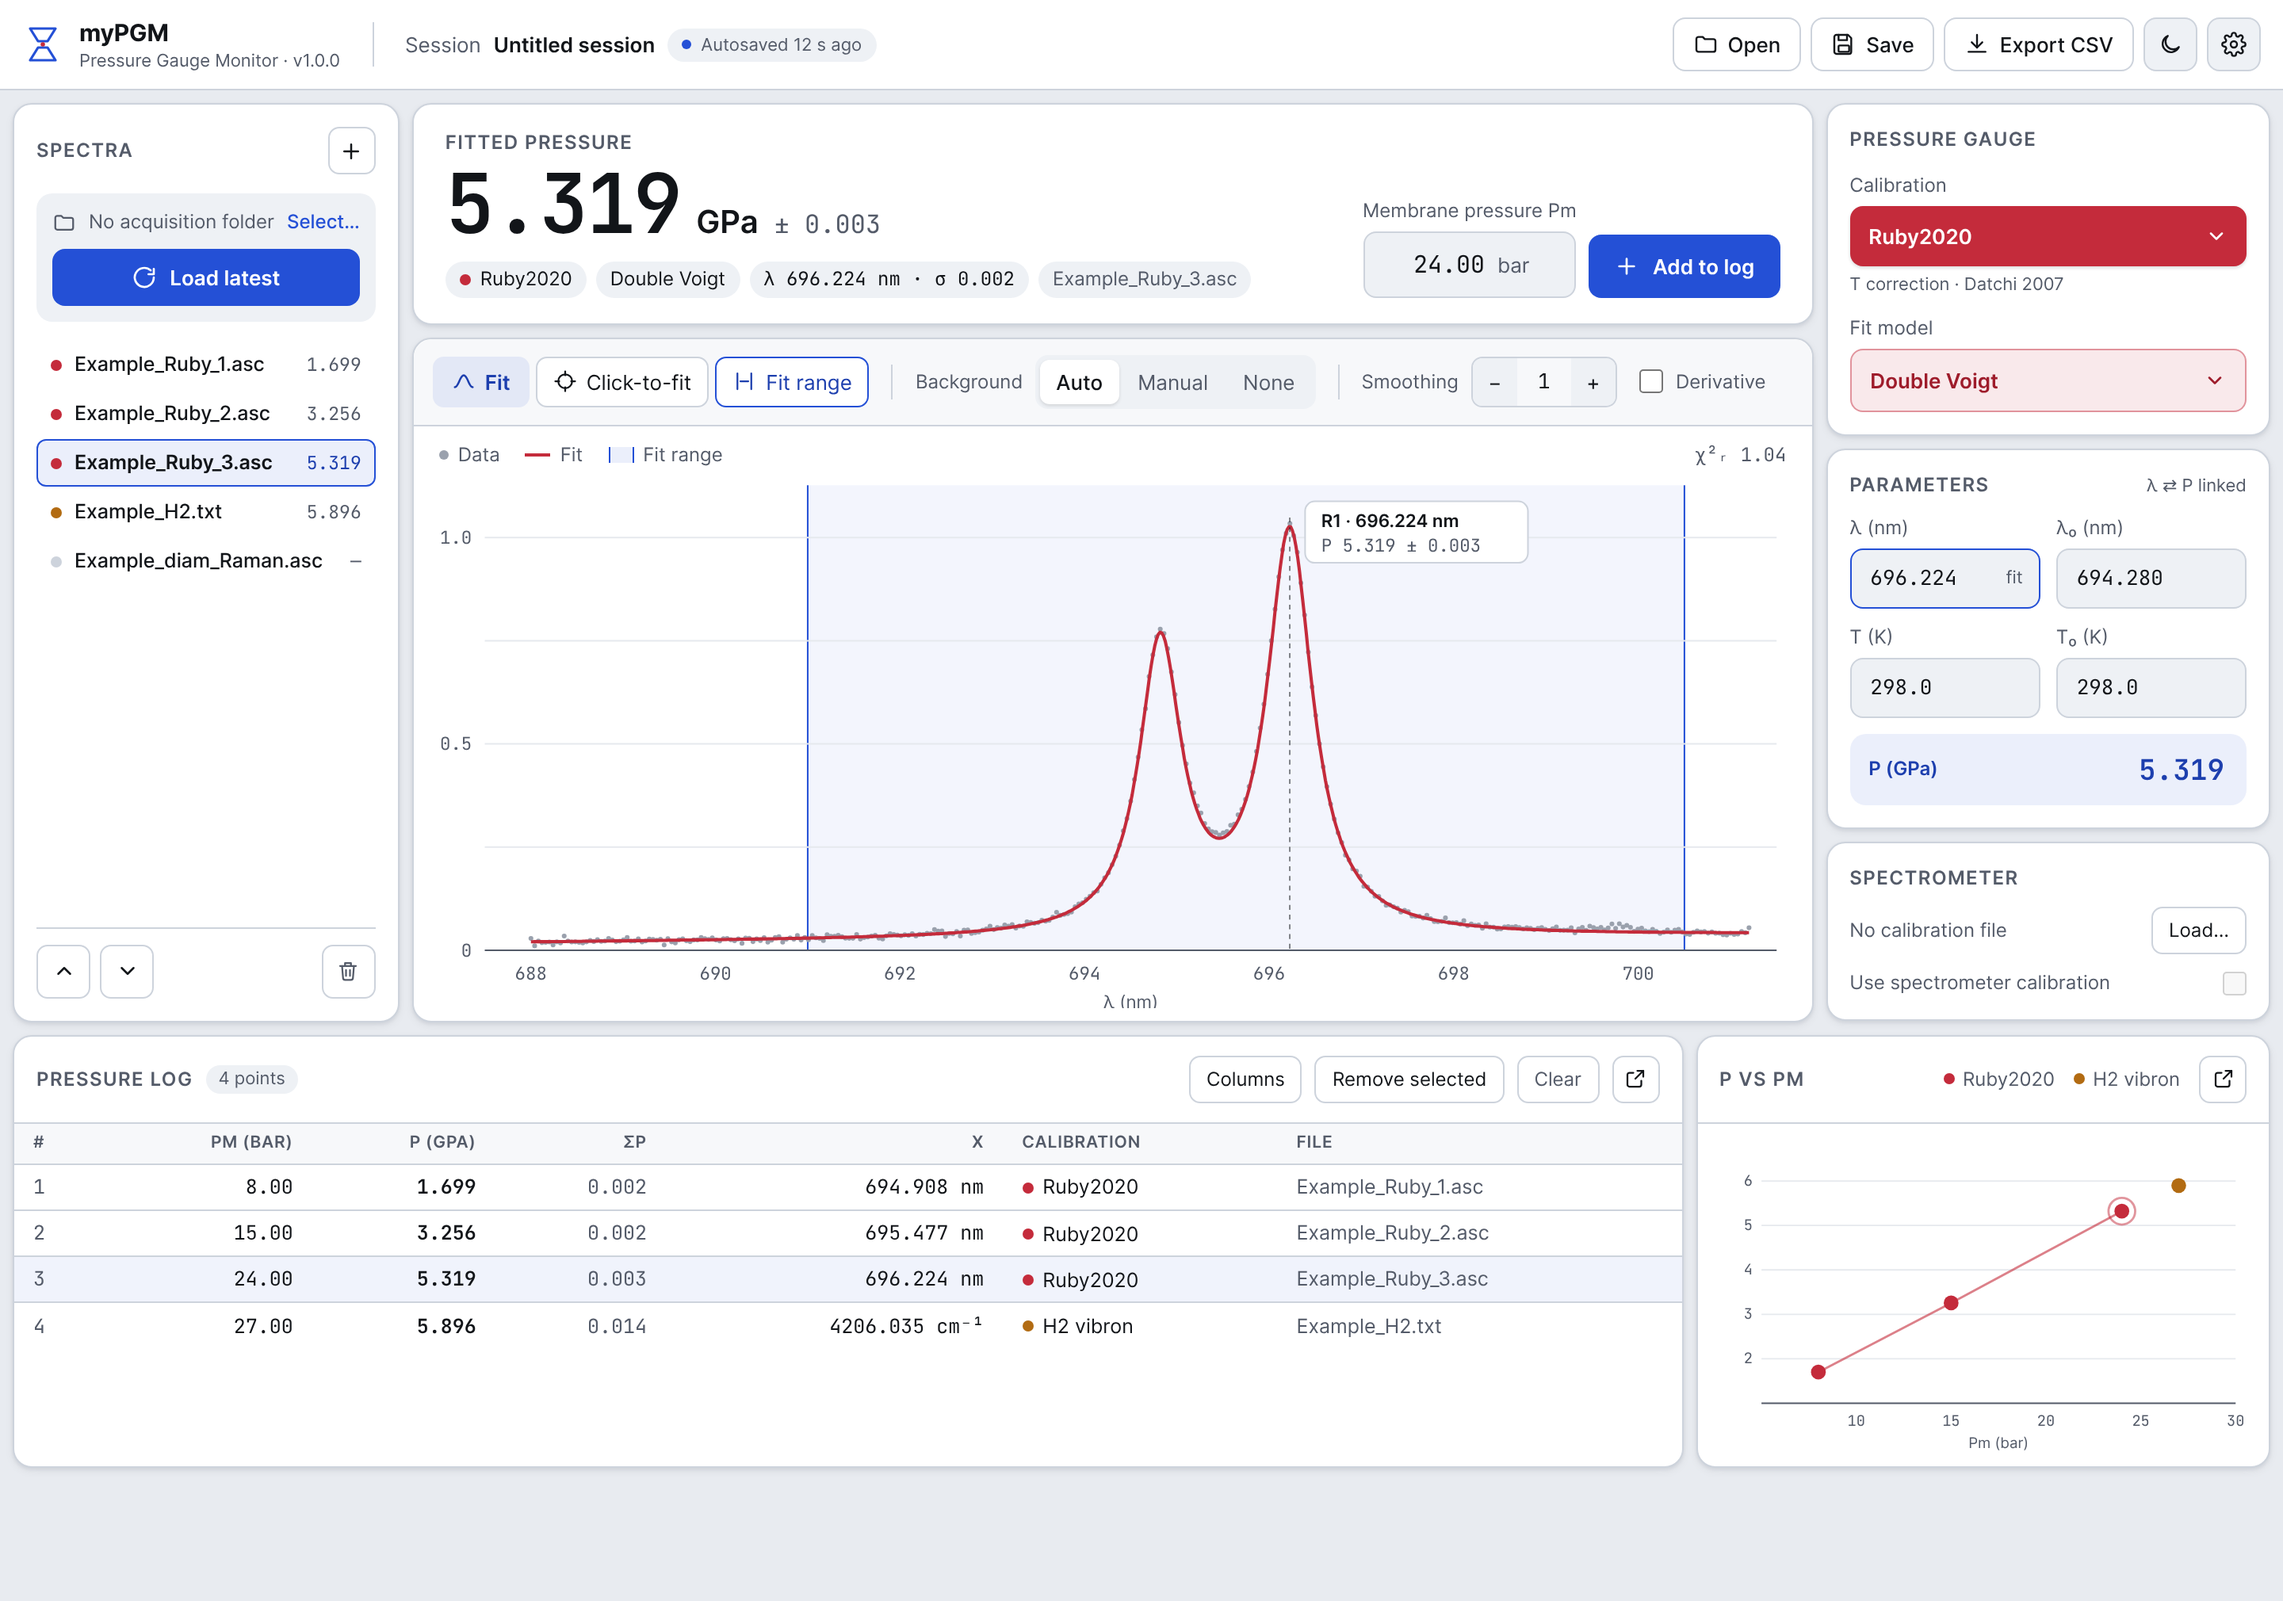
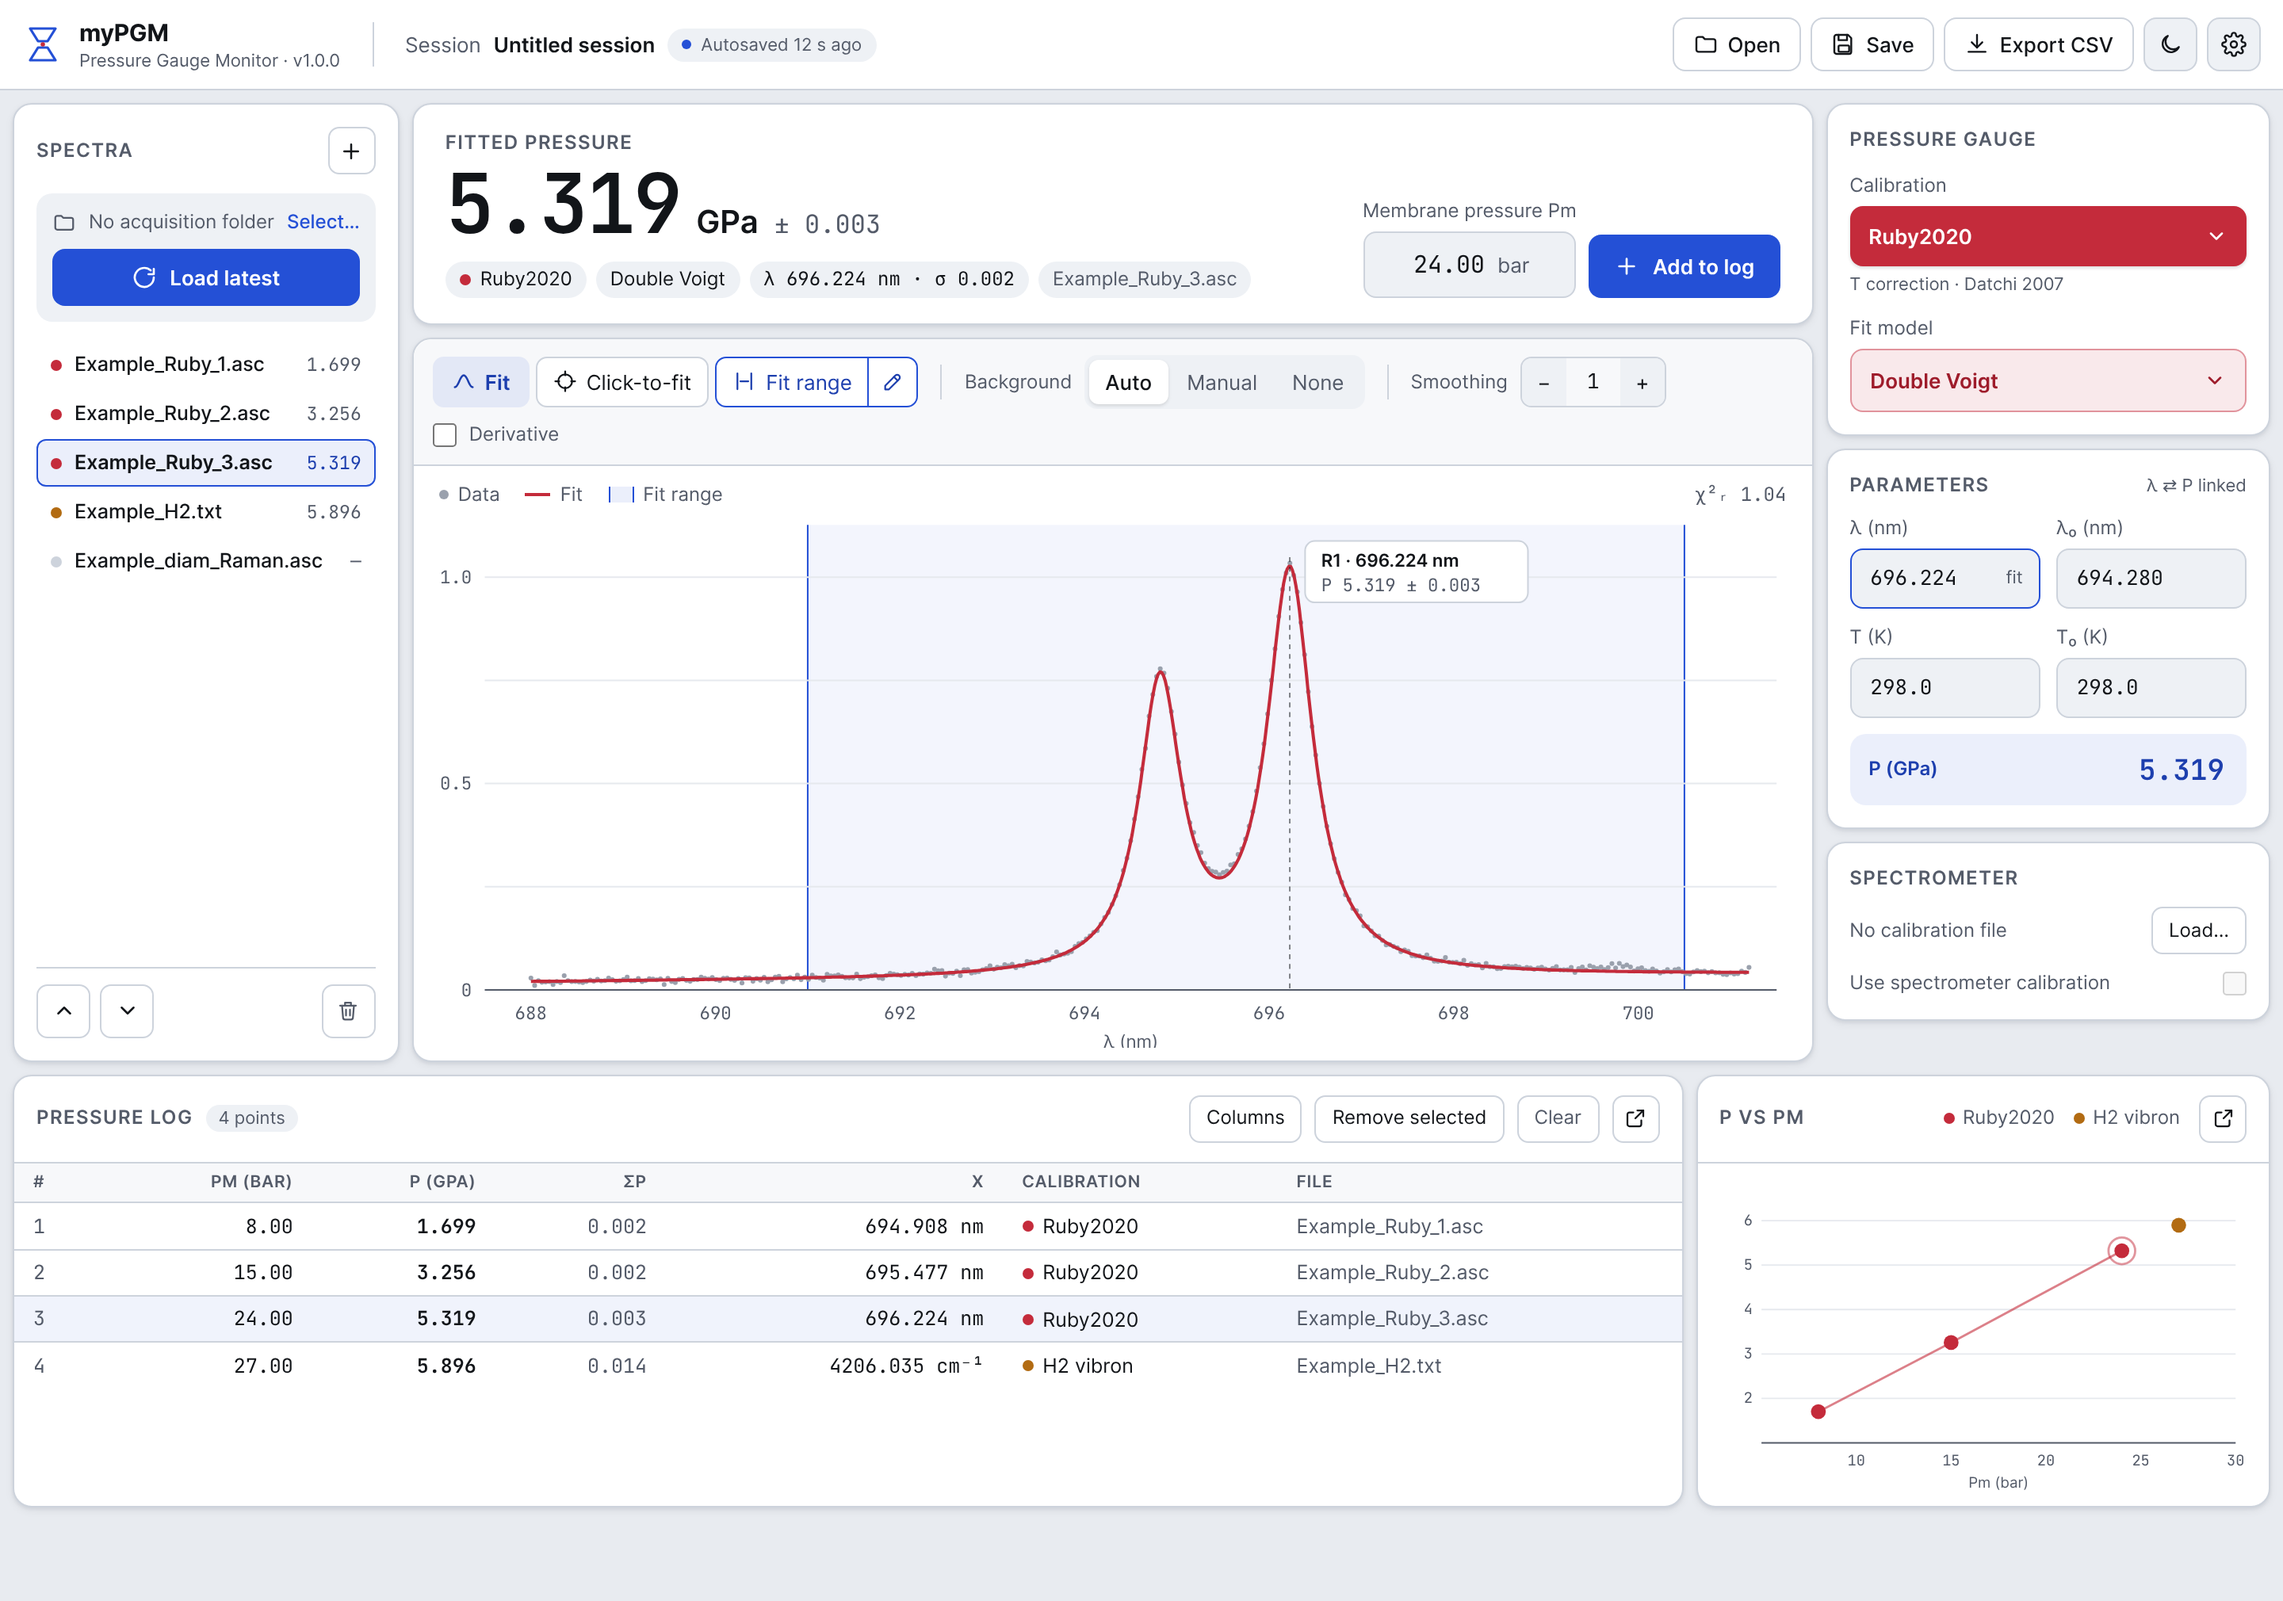
Design spec: fit range split button with edit (pencil) toggle
Claude-Session: https://claude.ai/code/session_01D8ST4rG4FQjGSQ4HCeBbRy

diff --git a/docs/design/mockup_source.html b/docs/design/mockup_source.html
@@ -147,8 +147,12 @@ body{margin:0}
             <svg width="15" height="15" viewBox="0 0 24 24" aria-hidden="true" fill="none" stroke="currentColor" stroke-width="2" stroke-linecap="round" stroke-linejoin="round"><path d="M3 18c4 0 5-12 9-12s5 12 9 12"></path></svg>Fit</button>
           <button type="button" style="display: inline-flex; align-items: center; gap: 6px; height: 32px; padding: 0 10px; border-radius: 7px; border: 1px solid var(--bd); background: var(--sf); color: var(--tx); font: inherit; cursor: pointer">
             <svg width="15" height="15" viewBox="0 0 24 24" aria-hidden="true" fill="none" stroke="currentColor" stroke-width="1.8" stroke-linecap="round"><circle cx="12" cy="12" r="7"></circle><path d="M12 2v4M12 18v4M2 12h4M18 12h4"></path></svg>Click-to-fit</button>
-          <button type="button" aria-pressed="true" style="display: inline-flex; align-items: center; gap: 6px; height: 32px; padding: 0 10px; border-radius: 7px; border: 1px solid var(--ac); background: var(--sf); color: var(--act); font: inherit; cursor: pointer">
-            <svg width="15" height="15" viewBox="0 0 24 24" aria-hidden="true" fill="none" stroke="currentColor" stroke-width="1.8" stroke-linecap="round"><path d="M5 4v16M19 4v16M8 12h8"></path></svg>Fit range</button>
+          <div role="group" aria-label="Fit range" style="display: inline-flex">
+            <button type="button" aria-pressed="{{rangeOn}}" onClick="{{toggleRange}}" title="Restrict the fit to a wavelength range" style="display: inline-flex; align-items: center; gap: 6px; height: 32px; padding: 0 10px; border-radius: 7px 0 0 7px; border: 1px solid {{rangeBorder}}; background: var(--sf); color: {{rangeColor}}; font: inherit; cursor: pointer; position: relative; z-index: 1">
+              <svg width="15" height="15" viewBox="0 0 24 24" aria-hidden="true" fill="none" stroke="currentColor" stroke-width="1.8" stroke-linecap="round"><path d="M5 4v16M19 4v16M8 12h8"></path></svg>Fit range</button>
+            <button type="button" aria-label="Edit fit range" title="Edit fit range (drag its edges on the plot)" aria-pressed="{{rangeEdit}}" disabled="{{editDisabled}}" onClick="{{toggleEdit}}" style="display: inline-flex; align-items: center; justify-content: center; width: 32px; height: 32px; margin-left: -1px; border-radius: 0 7px 7px 0; border: 1px solid {{rangeBorder}}; background: {{editBg}}; color: {{editColor}}; cursor: pointer; opacity: {{editOpacity}}">
+              <svg width="14" height="14" viewBox="0 0 24 24" aria-hidden="true" fill="none" stroke="currentColor" stroke-width="1.9" stroke-linecap="round" stroke-linejoin="round"><path d="M4 20h4L19 9a2.8 2.8 0 0 0-4-4L4 16z"></path><path d="m13.5 6.5 4 4"></path></svg></button>
+          </div>
         </div>
         <div style="width: 1px; height: 22px; background: var(--bd)"></div>
         <div style="display: flex; align-items: center; gap: 8px">
@@ -180,9 +184,20 @@ body{margin:0}
       </div>
       <div style="padding: 4px 12px 8px 4px; flex: 1 1 auto">
         <svg viewBox="-40 -6 850 330" role="img" aria-label="Ruby fluorescence spectrum with double Voigt fit, R1 at 696.224 nm" style="width: 100%; height: auto; display: block">
+          <sc-if value="{{rangeOn}}" hint-placeholder-val="{{ true }}">
           <rect x="200" y="0" width="542.9" height="288" style="fill: var(--acs)" opacity="0.6"></rect>
-          <line x1="200" y1="0" x2="200" y2="288" style="stroke: var(--ac)" stroke-width="1"></line>
-          <line x1="742.9" y1="0" x2="742.9" y2="288" style="stroke: var(--ac)" stroke-width="1"></line>
+          <line x1="200" y1="0" x2="200" y2="288" style="stroke: var(--ac)" stroke-width="{{edgeWidth}}"></line>
+          <line x1="742.9" y1="0" x2="742.9" y2="288" style="stroke: var(--ac)" stroke-width="{{edgeWidth}}"></line>
+          </sc-if>
+          <sc-if value="{{rangeEdit}}" hint-placeholder-val="{{ false }}">
+          <g>
+            <rect x="194" y="126" width="12" height="36" rx="4" style="fill: var(--ac)"></rect>
+            <rect x="736.9" y="126" width="12" height="36" rx="4" style="fill: var(--ac)"></rect>
+            <g style="stroke: var(--onac)" stroke-width="1.2" stroke-linecap="round"><line x1="198.5" y1="137" x2="198.5" y2="151"></line><line x1="201.5" y1="137" x2="201.5" y2="151"></line><line x1="741.4" y1="137" x2="741.4" y2="151"></line><line x1="744.4" y1="137" x2="744.4" y2="151"></line></g>
+            <rect x="210" y="8" width="214" height="24" rx="5" style="fill: var(--ac)"></rect>
+            <text x="220" y="24" font-size="11" font-weight="600" style="fill: var(--onac)">Drag the edges · 691.0 – 700.5 nm</text>
+          </g>
+          </sc-if>
           <g style="stroke: var(--grid)" stroke-width="1">
             <line x1="0" y1="224.1" x2="800" y2="224.1"></line><line x1="0" y1="160.2" x2="800" y2="160.2"></line><line x1="0" y1="96.3" x2="800" y2="96.3"></line><line x1="0" y1="32.4" x2="800" y2="32.4"></line>
           </g>
@@ -418,7 +433,7 @@ body{margin:0}
 
 </div>
 </x-dc>
-<script type="text/x-dc" data-dc-script data-props='{"dark":{"editor":"boolean","default":false},"tableUndocked":{"editor":"boolean","default":false},"plotUndocked":{"editor":"boolean","default":false},"accent":{"editor":"color","default":"#2450D6","options":["#2450D6","#0F7B6C","#7A4BD1","#C2410C"]},"$preview":{"width":1440,"height":1010}}'>
+<script type="text/x-dc" data-dc-script data-props='{"dark":{"editor":"boolean","default":false},"tableUndocked":{"editor":"boolean","default":false},"fitRangeEditing":{"editor":"boolean","default":false},"plotUndocked":{"editor":"boolean","default":false},"accent":{"editor":"color","default":"#2450D6","options":["#2450D6","#0F7B6C","#7A4BD1","#C2410C"]},"$preview":{"width":1440,"height":1010}}'>
 class Component extends DCLogic {
   renderVals() {
     const st = this.state || {};
@@ -440,6 +455,8 @@ class Component extends DCLogic {
     light.acs = rgba(light.ac, 0.09); light.sel = rgba(light.ac, 0.07);
     night.acs = rgba(night.ac, 0.15); night.sel = rgba(night.ac, 0.11);
     const t = dark ? night : light;
+    const rangeOn = st.rangeOn != null ? st.rangeOn : true;
+    const rangeEdit = rangeOn && (st.rangeEdit != null ? st.rangeEdit : !!this.props.fitRangeEditing);
     const calName = st.calib || 'Ruby2020';
     const fam = /^Sm/.test(calName) ? 'sm' : /^H2/.test(calName) ? 'h2' : /^Diamond/.test(calName) ? 'dia' : 'ruby';
     const calPal = {
@@ -470,6 +487,15 @@ class Component extends DCLogic {
     ].map((r) => ({ ...r, bg: r.current ? t.sel : 'transparent' }));
     return {
       t, files, params, rows, cal, calName,
+      rangeOn: rangeOn, rangeEdit: rangeEdit, editDisabled: !rangeOn,
+      rangeBorder: rangeOn ? t.ac : t.bd,
+      rangeColor: rangeOn ? t.act : t.tx,
+      editBg: rangeEdit ? t.ac : t.sf,
+      editColor: rangeEdit ? t.onac : (rangeOn ? t.act : t.mu),
+      editOpacity: rangeOn ? 1 : 0.5,
+      edgeWidth: rangeEdit ? 2 : 1,
+      toggleRange: () => this.setState({ rangeOn: !rangeOn, rangeEdit: false }),
+      toggleEdit: () => this.setState({ rangeEdit: !rangeEdit }),
       settingsOpen: !!st.settingsOpen,
       settingsBg: st.settingsOpen ? t.acs : t.sf2,
       settingsBorder: st.settingsOpen ? t.ac : t.bd,

diff --git a/docs/design/DESIGN.md b/docs/design/DESIGN.md
@@ -6,6 +6,7 @@ Reference for the redesign of the myPGM main window. It goes with:
 |---|---|
 | `mockup_light.png` | Main window, light theme, everything docked |
 | `mockup_dark_plot_undocked.png` | Dark theme, P vs Pm plot undocked into its own window |
+| `mockup_light_fit_range_editing.png` | Fit range on and in edit mode (pencil part of the split button active, draggable edges) |
 | `mockup_light_settings_menu.png` | Settings menu open (gear button, top right) |
 | `mockup_light_table_undocked_samarium.png` | Pressure log undocked; Sm calibration selected (selector colors follow the calibration) |
 | `mockup_source.html` | HTML source of the mockup: exact sizes, paddings and colors when a PNG is ambiguous. Holes like `{{t.bg}}` are filled from the palette in its `<script>` block. |
@@ -26,7 +27,11 @@ One main window instead of three. From top to bottom:
    - **Spectra sidebar** (≈ 240 px): header "SPECTRA" + "+" add button; an acquisition-folder box (folder name or "No acquisition folder", "Select…" link, full-width primary **Load latest** button); the file list; at the bottom move up / move down / delete icon buttons.
    - **Center** (takes the extra width):
      - **Fitted pressure card**: label "FITTED PRESSURE"; the value in very large mono (52 px, semibold) + "GPa" (20 px semibold) + "± σ" (16 px mono, muted); a row of pills: calibration (with its colored dot), fit model, "λ 696.224 nm · σ 0.002", file name. On the right: "Membrane pressure Pm" field (mono, "bar" suffix) and the primary **Add to log** button.
-     - **Spectrum card**: one toolbar row (Fit [accent-soft, primary] · Click-to-fit · Fit range [toggle, accent border when on] | Background: segmented Auto / Manual / None | Smoothing − n + | Derivative checkbox), a small legend row (Data · Fit · Fit range, χ²ᵣ on the right), then the pyqtgraph plot. The fit range is a light accent band with accent edges; the fitted peak gets a dashed vertical marker and a small label "R1 · 696.224 nm / P 5.319 ± 0.003". The plot title text is gone (the pressure is in the card above).
+     - **Spectrum card**: one toolbar row (Fit [accent-soft, primary] · Click-to-fit · Fit range split button [see below] | Background: segmented Auto / Manual / None | Smoothing − n + | Derivative checkbox), a small legend row (Data · Fit · Fit range, χ²ᵣ on the right), then the pyqtgraph plot. The fit range is a light accent band with accent edges; the fitted peak gets a dashed vertical marker and a small label "R1 · 696.224 nm / P 5.319 ± 0.003". The plot title text is gone (the pressure is in the card above).
+     - **Fit range split button** (`mockup_light_fit_range_editing.png`), two joined buttons sharing one border:
+       - left part "Fit range" toggles the use of a fit range (today's `fit_range_enable_button`); on = accent border and accent text, off = neutral, and the band disappears from the plot;
+       - right part, a pencil icon (32 × 32, tooltip "Edit fit range"), toggles editing (today's `fit_range_edit_button`, keep both attribute names); it is disabled while the fit range is off and turning the range off also ends editing;
+       - while editing, the pencil part is solid accent with `onac` icon, the band edges get 2 px lines and grab handles (12 × 36 px accent pills with two grip lines) at mid height, and a small accent label at the top of the band shows "Drag the edges · 691.0 – 700.5 nm" with the live bounds. Keep the existing `ResizeOnlyLinearRegion` (`fit_range_selector`); only its look changes.
    - **Inspector** (≈ 300 px), three cards:
      - "PRESSURE GAUGE": Calibration selector (solid calibration color, see §3), "T correction · Datchi 2007" caption, Fit model selector (tinted calibration color).
      - "PARAMETERS" ("λ ⇄ P linked" on the right): 2 × 2 grid λ, λ₀, T, T₀ (mono inputs; the fitted one has an accent border and a small "fit" suffix), then a highlighted P (GPa) row (accent-soft background, 18 px semibold mono).
